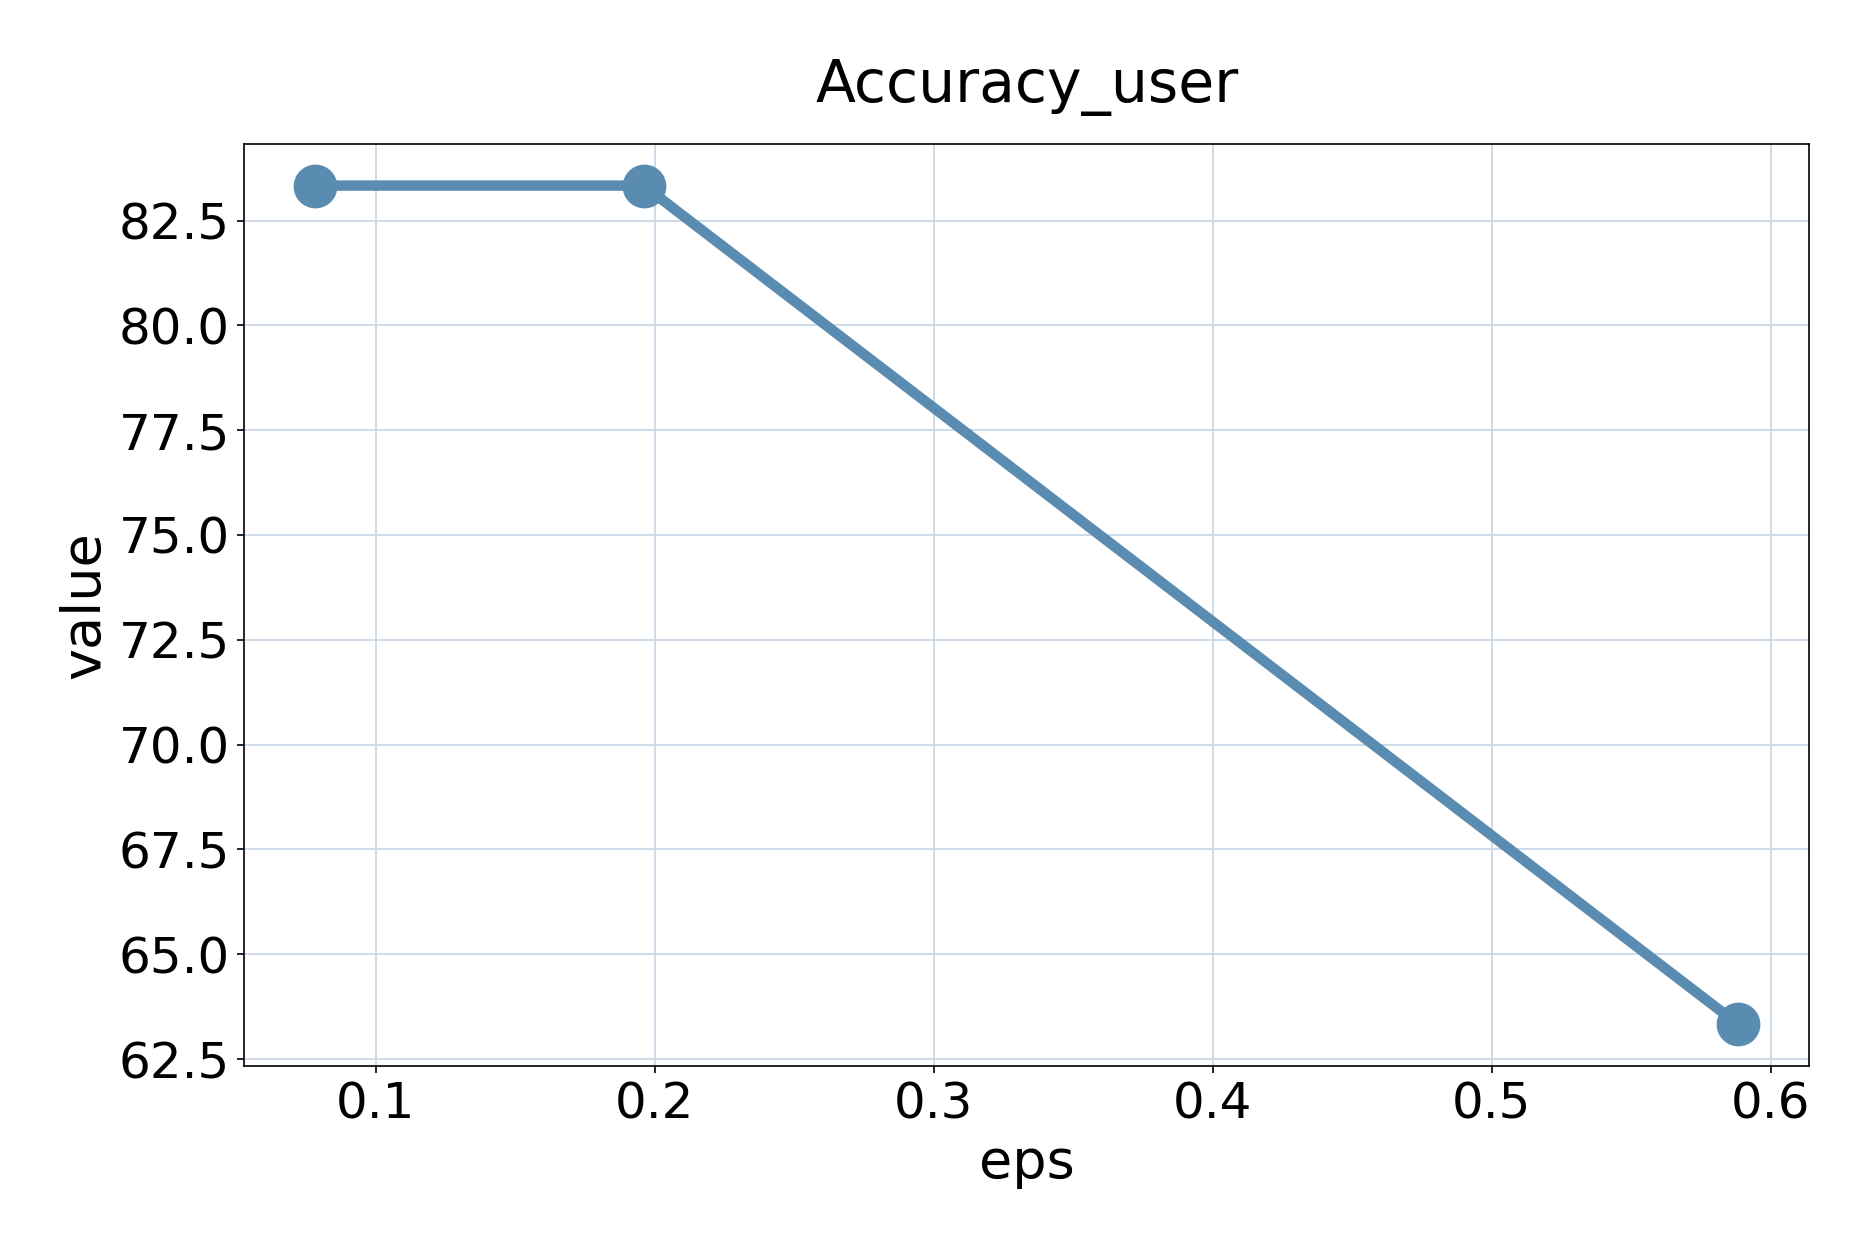
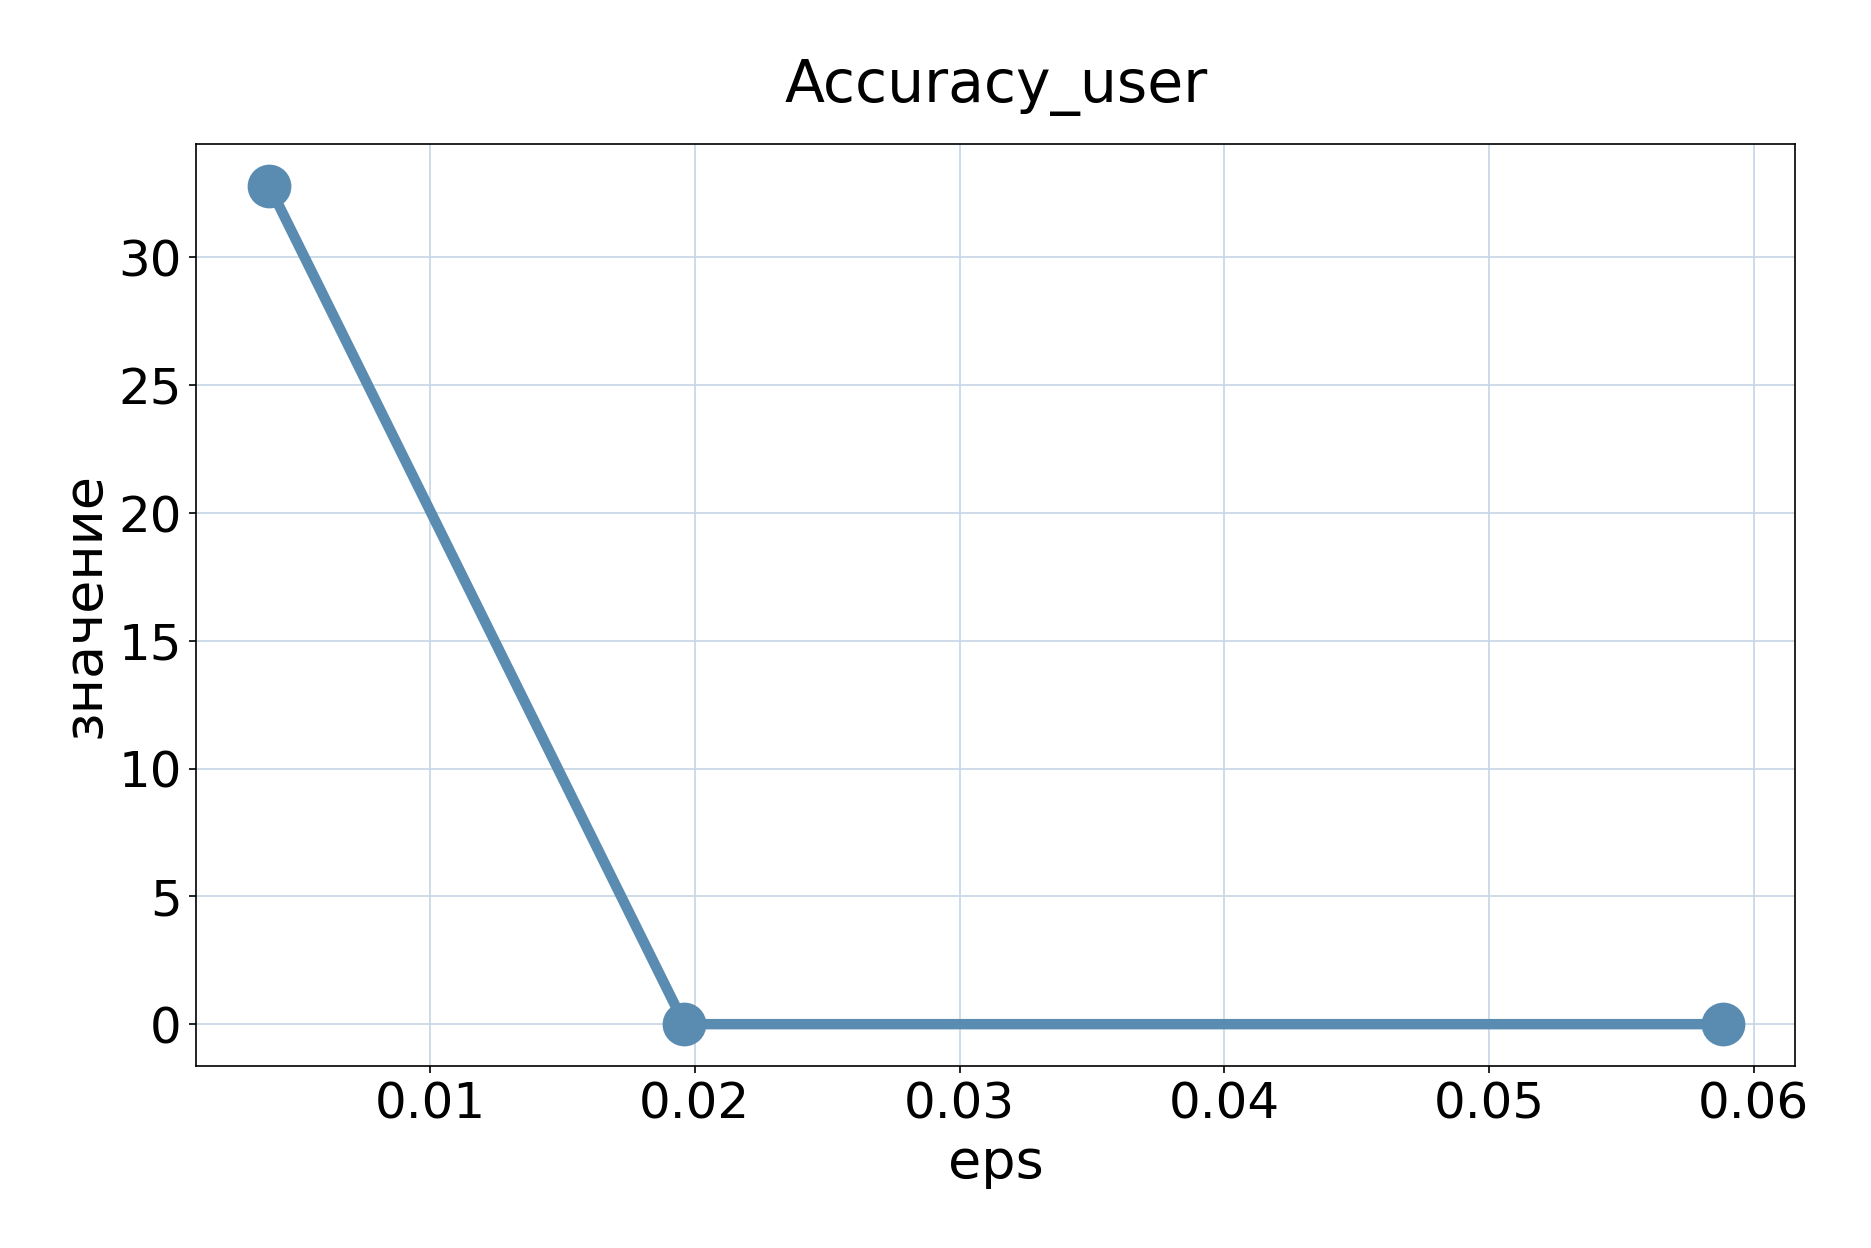
Update readme and example

diff --git a/examples/robustness_report.html b/examples/robustness_report.html
@@ -1,4 +1,4 @@
-<html><head><meta charset="utf-8"><title>Robustness Report</title>
+<html><head><meta charset="utf-8"><title>Отчет устойчивости</title>
     <style>
     body { background: #f7f8fa; color: #243b44; font-family: Arial, sans-serif; margin: 0; padding: 0; }
     .global-card { background: #fff; border-radius: 32px; box-shadow: 0 4px 32px #0002; padding: 32px; max-width: 1140px; margin: 40px auto; box-sizing: border-box; overflow-x: hidden; }
@@ -40,62 +40,67 @@
     }
     </style>
     </head><body><div class="global-card">
-<h1>Deep Learning Model Robustness Evaluation Report</h1>
-<h2 class="section-title">Overview</h2>
+<h1>Отчет устойчивости resnet18 к атаке pgd</h1>
+<h2 class="section-title">Обзор</h2>
 <div class="section-row">
-<div class="section-card"><h3 class="section-title">Model information</h3><ul class="pretty-list">
-<li><span class='param-key'>Problem type:</span> Table Classification</li><hr>
-<li><span class='param-key'>Model:</span> mlp</li><hr>
-<li><details><summary><span class="param-key">Model parameters</span></summary><ul class="param-list">
+<div class="section-card"><h3 class="section-title">Атакуемая модель</h3><ul class="pretty-list">
+<li><span class='param-key'>Задача:</span> Классификация изображений (Image classification)</li><hr>
+<li><span class='param-key'>Модель:</span> resnet18</li><hr>
+<li><details><summary><span class="param-key">Параметры</span></summary><ul class="param-list">
 <li style="margin-left:0px;"><span class="param-key">__init__:</span></li><hr>
-<li style="margin-left:18px;"><span class="param-key">input_shape:</span> <span class="param-val">4</span></li><hr>
-<li style="margin-left:18px;"><span class="param-key">num_classes:</span> <span class="param-val">3</span></li><hr>
+<li style="margin-left:18px;"><span class="param-key">input_shape:</span> <span class="param-val">[3, 32, 32]</span></li><hr>
+<li style="margin-left:18px;"><span class="param-key">num_classes:</span> <span class="param-val">10</span></li><hr>
 <li style="margin-left:18px;"><span class="param-key">weights_path:</span> <span class="param-val">weights.pth</span></li><hr>
-<li style="margin-left:0px;"><span class="param-key">compute_metrics:</span> <span class="param-val">default</span></li><hr>
-<li style="margin-left:0px;"><span class="param-key">reset_metrics:</span> <span class="param-val">default</span></li><hr>
-<li style="margin-left:0px;"><span class="param-key">update_metrics:</span> <span class="param-val">default</span></li><hr>
+<li style="margin-left:0px;"><span class="param-key">compute_metrics:</span> <span class="param-val">по умолчанию</span></li><hr>
+<li style="margin-left:0px;"><span class="param-key">reset_metrics:</span> <span class="param-val">по умолчанию</span></li><hr>
+<li style="margin-left:0px;"><span class="param-key">update_metrics:</span> <span class="param-val">по умолчанию</span></li><hr>
 <li style="margin-left:0px;"><span class="param-key">train_function:</span></li><hr>
 <li style="margin-left:18px;"><span class="param-key">lr:</span> <span class="param-val">0.00100</span></li><hr>
+<li style="margin-left:18px;"><span class="param-key">momentum:</span> <span class="param-val">0.90000</span></li><hr>
 <li style="margin-left:18px;"><span class="param-key">num_epochs:</span> <span class="param-val">5</span></li><hr>
 <li style="margin-left:18px;"><span class="param-key">save_model_weigths:</span> <span class="param-val">weights.pth</span></li><hr>
-<li style="margin-left:0px;"><span class="param-key">get_grad:</span> <span class="param-val">default</span></li><hr>
-<li style="margin-left:0px;"><span class="param-key">predict_function:</span> <span class="param-val">default</span></li><hr>
+<li style="margin-left:0px;"><span class="param-key">get_grad:</span> <span class="param-val">по умолчанию</span></li><hr>
+<li style="margin-left:0px;"><span class="param-key">predict_function:</span> <span class="param-val">по умолчанию</span></li><hr>
 </ul></details></li></ul></div>
-<div class="section-card"><h3 class="section-title">Dataloader information</h3><ul class="pretty-list">
-<li><span class='param-key'>Dataset loader:</span> iris</li><hr>
-<li><details><summary><span class="param-key">Dataloader parameters</span></summary><ul class="param-list">
-<li style="margin-left:0px;"><span class="param-key">__init__:</span> <span class="param-val">default</span></li><hr>
-<li style="margin-left:0px;"><span class="param-key">get_dataset:</span> <span class="param-val">default</span></li><hr>
-<li style="margin-left:0px;"><span class="param-key">get_test_data:</span> <span class="param-val">default</span></li><hr>
-<li style="margin-left:0px;"><span class="param-key">get_train_data:</span> <span class="param-val">default</span></li><hr>
-<li style="margin-left:0px;"><span class="param-key">get_validation_data:</span> <span class="param-val">default</span></li><hr>
+<div class="section-card"><h3 class="section-title">Данные</h3><ul class="pretty-list">
+<li><span class='param-key'>Загрузчик данных:</span> cifar10</li><hr>
+<li><details><summary><span class="param-key">Параметры загрузчика данных</span></summary><ul class="param-list">
+<li style="margin-left:0px;"><span class="param-key">__init__:</span> <span class="param-val">по умолчанию</span></li><hr>
+<li style="margin-left:0px;"><span class="param-key">get_dataset:</span> <span class="param-val">по умолчанию</span></li><hr>
+<li style="margin-left:0px;"><span class="param-key">get_test_data:</span> <span class="param-val">по умолчанию</span></li><hr>
+<li style="margin-left:0px;"><span class="param-key">get_train_data:</span> <span class="param-val">по умолчанию</span></li><hr>
+<li style="margin-left:0px;"><span class="param-key">get_validation_data:</span> <span class="param-val">по умолчанию</span></li><hr>
 </ul></details></li></ul></div>
-<div class="section-card"><h3 class="section-title">Attack information</h3><ul class="pretty-list">
-<li><span class='param-key'>Attack:</span> pgd</li><hr>
-<li><details><summary><span class="param-key">Fixed attack parameters</span></summary><ul class="param-list">
-<li style="margin-left:0px;"><span class="param-key">eps_step:</span> <span class="param-val">0.03922</span></li><hr>
-<li style="margin-left:0px;"><span class="param-key">clip_min:</span> <span class="param-val">-100</span></li><hr>
-<li style="margin-left:0px;"><span class="param-key">clip_max:</span> <span class="param-val">100</span></li><hr>
+<div class="section-card"><h3 class="section-title">Информация об атаке</h3><ul class="pretty-list">
+<li><span class='param-key'>Атака:</span> pgd</li><hr>
+<li><details><summary><span class="param-key">Зафиксированные параметры</span></summary><ul class="param-list">
+<li style="margin-left:0px;"><span class="param-key">eps_step:</span> <span class="param-val">0.00392</span></li><hr>
+<li style="margin-left:0px;"><span class="param-key">max_iter:</span> <span class="param-val">10</span></li><hr>
+<li style="margin-left:0px;"><span class="param-key">norm:</span> <span class="param-val">inf</span></li><hr>
+<li style="margin-left:0px;"><span class="param-key">targeted:</span> <span class="param-val">False</span></li><hr>
+<li style="margin-left:0px;"><span class="param-key">test_on_num_examples:</span> <span class="param-val">50</span></li><hr>
+<li style="margin-left:0px;"><span class="param-key">clip_min:</span> <span class="param-val">0.00000</span></li><hr>
+<li style="margin-left:0px;"><span class="param-key">clip_max:</span> <span class="param-val">1.00000</span></li><hr>
 </ul></details></li>
-<li><span class='param-key'>Variable attack parameter:</span> eps</li><hr>
-<li><details><summary><span class="param-key">Variable attack parameter values</span></summary><div class="param-values">
-<div class="param-item">0.07843</div>
-<div class="param-item">0.19608</div>
-<div class="param-item">0.58824</div>
+<li><span class='param-key'>Переменный параметр:</span> eps</li><hr>
+<li><details><summary><span class="param-key">Значения переменного параметра</span></summary><div class="param-values">
+<div class="param-item">0.00392</div>
+<div class="param-item">0.01961</div>
+<div class="param-item">0.05882</div>
 </div></details></li></ul></div>
-</div><h2 class="section-title">Metrics</h2>
+</div><h2 class="section-title">Метрики</h2>
 <div class="section-card section-metrics section-wide">
 <table class="metrics-table">
-<tr><th>eps</th><th>Accuracy</th><th>Clean accuracy</th><th>ASR</th><th>MAE</th><th>Accuracy_user</th></tr>
-<tr><td>0.07843</td><td>0.83333</td><td>0.86667</td><td>0.03846</td><td>0.07843</td><td>83.33333</td></tr>
-<tr><td>0.19608</td><td>0.83333</td><td>0.86667</td><td>0.03846</td><td>0.19608</td><td>83.33333</td></tr>
-<tr><td>0.58824</td><td>0.63333</td><td>0.86667</td><td>0.26923</td><td>0.39216</td><td>63.33333</td></tr>
+<tr><th>eps</th><th>Accuracy_</th><th>Clean_Accuracy_</th><th>ASR_</th><th>MAE_</th><th>Accuracy_user</th></tr>
+<tr><td>0.00392</td><td>32.81250</td><td>79.68750</td><td>58.82353</td><td>0.00328</td><td>32.81250</td></tr>
+<tr><td>0.01961</td><td>0.00000</td><td>79.68750</td><td>100.00000</td><td>0.01292</td><td>0.00000</td></tr>
+<tr><td>0.05882</td><td>0.00000</td><td>79.68750</td><td>100.00000</td><td>0.01599</td><td>0.00000</td></tr>
 </table>
-</div><h2 class="section-title">Plots</h2>
+</div><h2 class="section-title">Графики</h2>
 <div class="section-card section-plots section-wide"><div class="plots-grid">
-<div class="plot-img"><img src="Accuracy.png" alt="Accuracy" style="max-width:100%; border-radius:12px;"></div>
-<div class="plot-img"><img src="ASR.png" alt="ASR" style="max-width:100%; border-radius:12px;"></div>
-<div class="plot-img"><img src="MAE.png" alt="MAE" style="max-width:100%; border-radius:12px;"></div>
+<div class="plot-img"><img src="Accuracy_.png" alt="Accuracy_" style="max-width:100%; border-radius:12px;"></div>
+<div class="plot-img"><img src="ASR_.png" alt="ASR_" style="max-width:100%; border-radius:12px;"></div>
+<div class="plot-img"><img src="MAE_.png" alt="MAE_" style="max-width:100%; border-radius:12px;"></div>
 <div class="plot-img"><img src="Accuracy_user.png" alt="Accuracy_user" style="max-width:100%; border-radius:12px;"></div>
 </div></div>
 </div></body></html>

diff --git a/README.md b/README.md
@@ -4,20 +4,19 @@ This Python script generates comprehensive HTML reports from JSON data containin
 
 ## Features
 
-- **Clear style**:
-  - Clear color palette without colors being too vibrant
-  - Drop-down lists to reduce cluttering
-  - Visual grouping
-- **Three Main Sections**:
+- **Three Sections**:
   1. Model and experiment configuration overview
   2. Complete results table
   3. Data visualizations using Matplotlib
-- **Mobile Responsive**: Works on all device sizes
+- **Details**:
+  - Metrics without `_` at the end are treated as user metrics and put to the end
+  - Metrics with names starting with `Clean_` (case-insensitive) are considered to be calculated on unperturbed samples and should have equal values across experiments; a warning is printed otherwise
+  - Metrics with names `X` and `Clean_X` (case-insensitive) are grouped in plots and in the table
 
 ## Requirements
 
-- Python 3.6+
-- matplotlib
+- Python 3.10.18 or compatible
+- matplotlib 3.10.7 or compatible
 
 ## Installation
 
@@ -35,12 +34,14 @@ python generate_report.py
 
 ### Custom Input/Output Files
 ```bash
-python generate_report.py -i input_file.json -o my_report.html
+python generate_report.py -i input_file.json -o my_report.html -p ./plots/ -PTp problem_types.json
 ```
 
 ### Command Line Arguments
 - `-i, --input`: Path to input JSON file (default: report_dict.json)
 - `-o, --output`: Output HTML file path (default: robustness_report.html)
+- `-p, --plots-path`: Path to output plots directory (default: .)
+- `-PTp, --problem-types-path`: Path to problem types JSON file (default: ./problem_types.json)
 
 ## JSON Input Format
 
@@ -49,7 +50,7 @@ The input JSON should have the following structure:
 ```json
 {
     "desc": {
-        "problem_type": "Problem Type Name",
+        "problem_type": "Problem type name",
         "model_name": "model_name",
         "model_parameters": { // all values are dictionaries
             "parameter1": { // values of a parameter cannot be dictionaries
@@ -83,15 +84,17 @@ The input JSON should have the following structure:
         },
         "metrics": { // keys represent variable parameter values
             "variable_param_value1": { // keys inside each variable_param_value must be the same
-                "Metric 1": 0.8333333333333334, // can be int or float
+                "Metric_1_": 0.8333333333333334, // can be int or float
                 // ...
-                "Metric N": 0.0784313753247261
+                "Metric_N-1": 0.0784313753247261, // treated as user metric
+                "Metric_N_": 83.3333333333333334 // treated as non-user metric
             },
             // ...
             "variable_param_valueV": {
-                "Metric 1": 0.6333333333333333,
+                "Metric_1_": 0.6333333333333333,
                 // ...
-                "Metric N": 0.3921568691730499
+                "Metric_N-1": 0.3921568691730499,
+                "Metric_N_": 63.3333333333333334
             }
         }
     }
